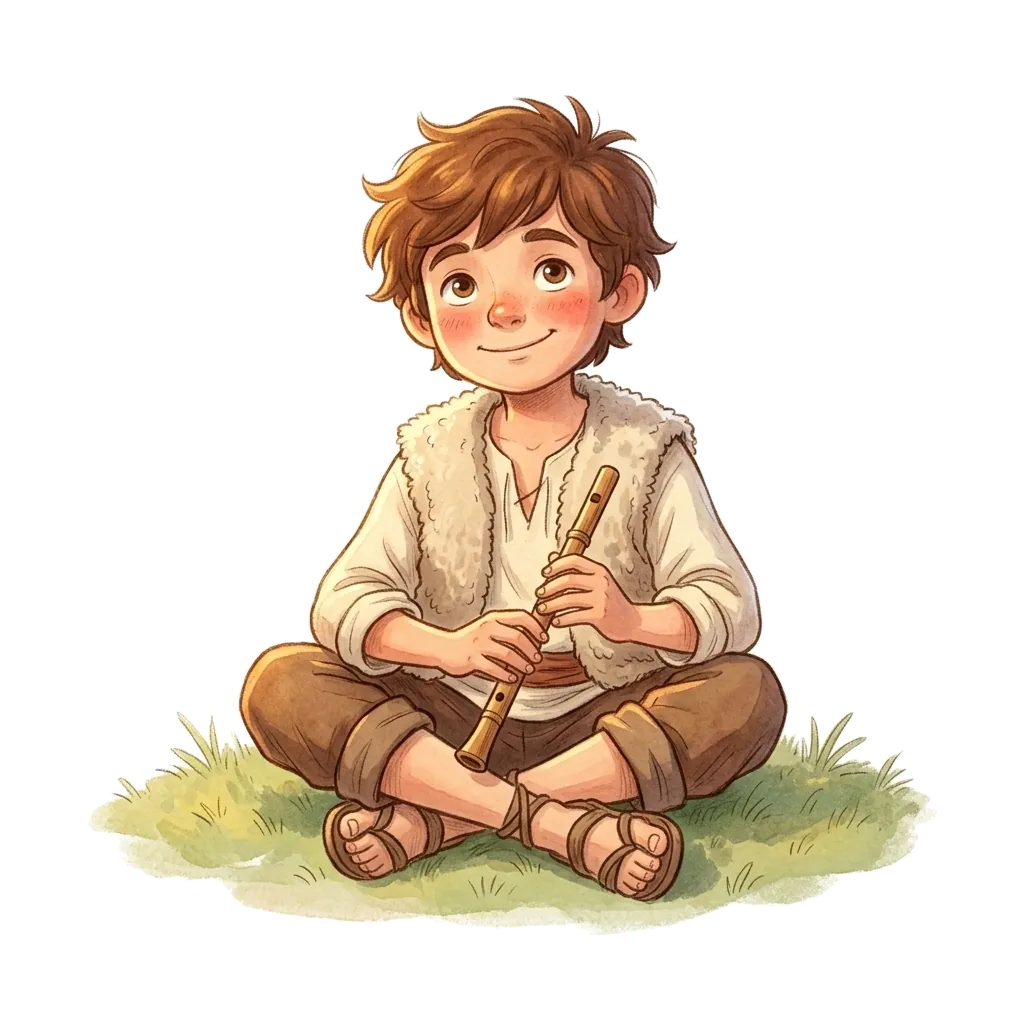
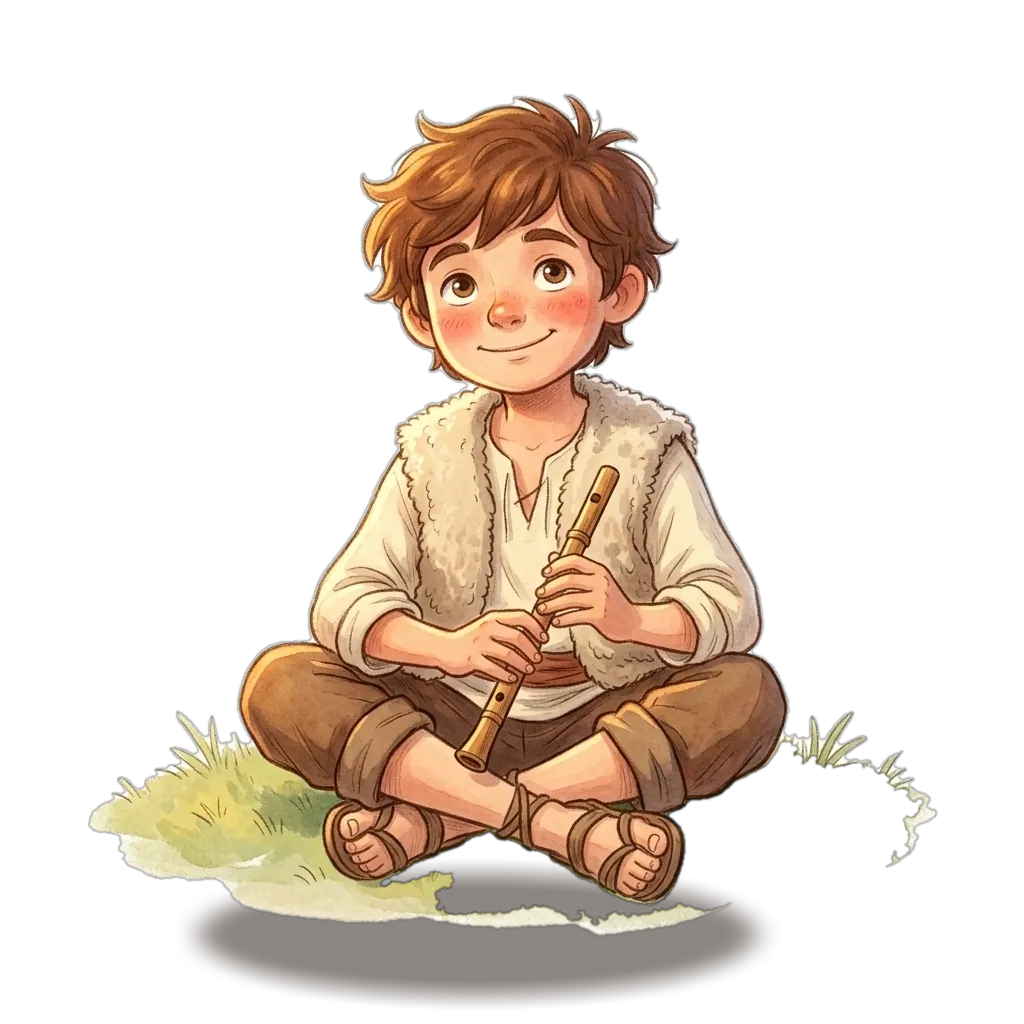
art(dom-quixote): P-003 ajuste NB-2 camadas da pousada com sombras escuras suaves, avental opaco e sem halo

diff --git a/sw.js b/sw.js
@@ -4,8 +4,9 @@
    - Na instalação, baixa todos os livros (HTML, estilos, fontes e ilustrações) para leitura offline.
    - Páginas HTML: rede primeiro (recebe correções), cache quando estiver sem internet.
    - Demais arquivos: cache primeiro (abre instantâneo no tablet). */
-const CACHE = 'classicos-vivos-8fee88c2fa1a';
+const CACHE = 'classicos-vivos-bf5128a1ecbe';
 const FILES = [
+    "./assets/icones/icone-192.png",
     "./assets/css/fonts.css",
     "./assets/css/icons.css",
     "./assets/css/livro.css",
@@ -19,7 +20,6 @@ const FILES = [
     "./assets/fonts/nunito-latin-700-normal.woff2",
     "./assets/fonts/nunito-latin-800-normal.woff2",
     "./assets/fonts/nunito-latin-900-normal.woff2",
-    "./assets/icones/icone-192.png",
     "./assets/js/livro.js",
     "./dom-quixote/imagens/camadas/p4-estalajadeiro-acenando.webp",
     "./dom-quixote/imagens/camadas/p4-estalajadeiro-sopa.webp",

diff --git a/docs/fila/ENTREGAS.md b/docs/fila/ENTREGAS.md
@@ -8,7 +8,8 @@ Uma linha por entrega (uma tarefa NB ou uma página das Partes 2–4), **acresce
 | :--- | :--- | :--- | :--- | :--- | :--- |
 | 2026-10-23 20:26 | P-001 | NB-1 | `dom-quixote/imagens/p7-real-sem-pas.webp`, `dom-quixote/imagens/camadas/p7-pas-moinho.webp` | `f2971a0` | Fundo sem pás idêntico à base; camada de pás em cruz X isolada com canal alfa limpo e cubo centralizado no pixel 512,512. |
 | 2026-10-23 20:35 | P-001 | NB-2 | `dom-quixote/imagens/p4-real-fundo.webp`, `dom-quixote/imagens/camadas/p4-pastor-parado.webp`, `dom-quixote/imagens/camadas/p4-pastor-tocando.webp`, `dom-quixote/imagens/camadas/p4-porquinhos.webp`, `dom-quixote/imagens/camadas/p4-notas-musicais.webp`, `dom-quixote/imagens/camadas/p4-estalajadeiro-acenando.webp`, `dom-quixote/imagens/camadas/p4-estalajadeiro-sopa.webp` | `5965b15` | Cenário de fundo limpo 16:9 e 6 camadas transparentes com canal alfa limpo e sombra de contato sob os pés. Mesma escala e apoio entre as poses do pastor e do estalajadeiro. |
-| 2026-10-23 20:38 | P-001 | NB-3 (parcial) | `dom-quixote/imagens/p1-real-livro-castelos.webp` | neste commit | Livro dos Castelos (capa azul, silhueta do castelo) entregue. Dragões e Cavaleiros aguardam reset da cota do modelo Nano-Banana (429 RESOURCE_EXHAUSTED no gemini-3.1-flash-image, reseta em 2026-10-24 01:22:03 UTC / ~4h40m). |
+| 2026-10-23 20:38 | P-001 | NB-3 (parcial) | `dom-quixote/imagens/p1-real-livro-castelos.webp` | `c8f09c7` | Livro dos Castelos (capa azul, silhueta do castelo) entregue. Dragões e Cavaleiros aguardam reset da cota do modelo Nano-Banana (429 RESOURCE_EXHAUSTED no gemini-3.1-flash-image, reseta em 2026-10-24 01:22:03 UTC / ~4h40m). |
+| 2026-10-23 21:28 | P-003 | NB-2 (ajuste) | `dom-quixote/imagens/camadas/p4-estalajadeiro-acenando.webp`, `dom-quixote/imagens/camadas/p4-estalajadeiro-sopa.webp`, `dom-quixote/imagens/camadas/p4-porquinhos.webp`, `dom-quixote/imagens/camadas/p4-pastor-parado.webp`, `dom-quixote/imagens/camadas/p4-pastor-tocando.webp`, `dom-quixote/imagens/camadas/p4-notas-musicais.webp` | neste commit | Ajustes atendidos mantendo o mesmo canvas: avental 100% opaco, sombras escuras suaves sem mancha branca; pastor sem tapete de grama com sombra suave; notas sem halo branco com brilho dourado. Testado contra magenta. |
 
 ## Status atual
-Entregue: NB-1, NB-2 e NB-3 (parcial: livro dos castelos). Em pausa aguardando reset da cota da API de imagem (às 01:22 UTC) para concluir NB-3 (dragões e cavaleiros) e seguir para NB-4 a NB-8 e P-002.
+Entregue: P-003 (ajuste NB-2). Próxima tarefa: P-004 (limpeza de imagens substituídas) e aguardando reset de cota às 01:22 UTC para concluir NB-3.
